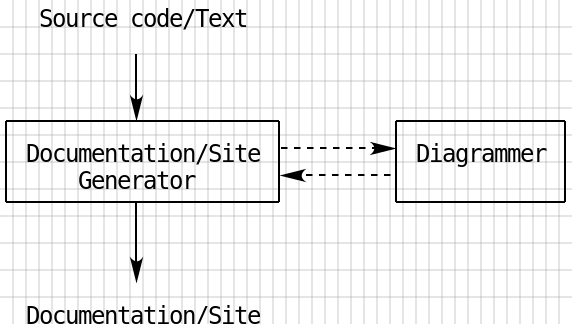
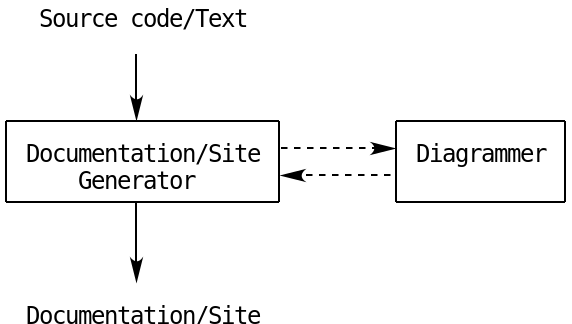
Command line option '--debug' is added.

Changed region(s): [[0.0, 0.0, 1.0, 1.0]]

diff --git a/README.md b/README.md
@@ -28,14 +28,19 @@ will be converted into:
 
 Usage
 -----
-The only command line argument passed to the program is a file to be
-converted:
+The only mandatory command line argument passed to the program is a
+file to be converted:
 ```
 diagrammer <input-file>
 ```
 
 The output is saved in a file `output.png`. If this file exists, it
 will be rewritten without a notice.
+
+There is a 'debug' mode. In this mode the diagram is drawn on top of a
+grid. The grid's cells represent characters, therefore cells
+dimensions equal to maximum possible characters width and height. The
+mode is enabled by `--debug` command line option.
 
 
 Philosophy
